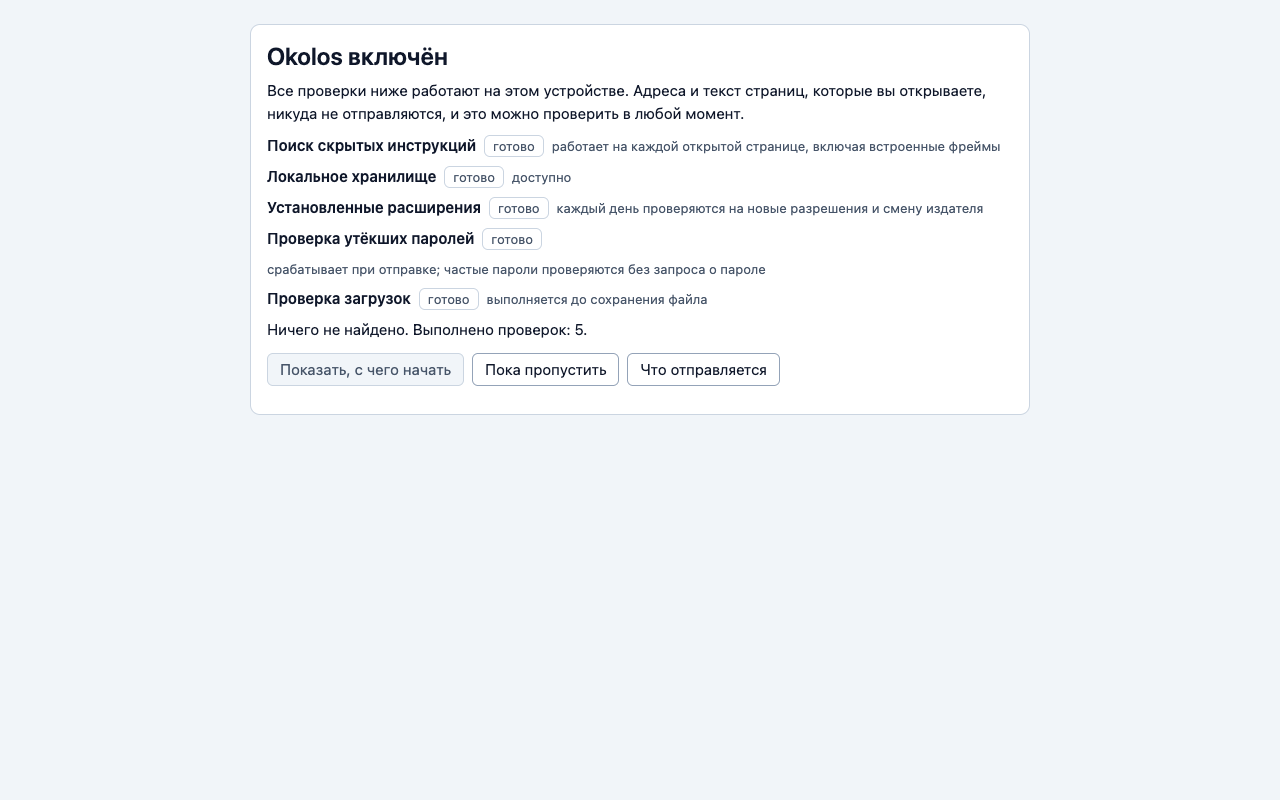
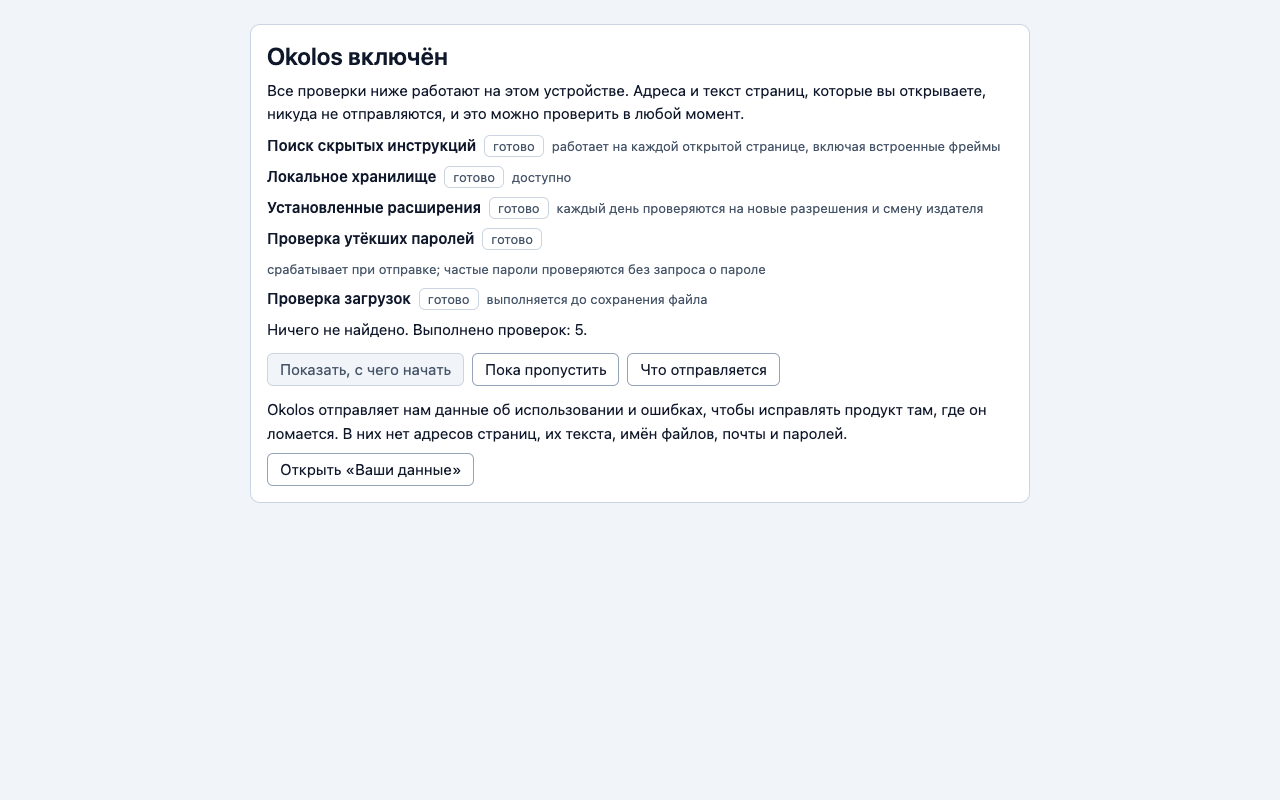
test(e2e): SCN-050/051 run on the test build, which behaves as the store build; a keyless production-shaped build says it sends nothing; store shots from their own build
CI on PR #64 failed SCN-050: e2e/fixtures.ts loads dist/chrome, the production-shaped
build with no key, which now honestly answers not-sent. The scenarios move to the
test build (hooks.js, asIfSending), and scn-051-not-sent.spec.ts checks the keyless
build on dist/chrome. The store screenshots had lost the first-run notice for the same
reason: they are taken from dist/chrome-shots (tools/build.mjs --store-shots), which
the tool removes when it is done.

Changed region(s): [[0.1875, 0.5, 0.7812, 0.5938]]

diff --git a/e2e/scn-051-not-sent.spec.ts b/e2e/scn-051-not-sent.spec.ts
@@ -1,0 +1,22 @@
+import { expect, test } from './fixtures.js'
+
+/**
+ * B-209 — a build with no App-Key, which is every build but the store's, says it sends nothing.
+ *
+ * Run against the production-shaped build (`dist/chrome`): it used to show the notice "Okolos sends
+ * us usage and error data" and a switch that was on, while it sent nothing at all.
+ */
+
+test('the first run shows no notice, and settings say this build sends nothing', async ({ context, extensionId }) => {
+  const first = await context.newPage()
+  await first.goto(`chrome-extension://${extensionId}/first-run.html`)
+  await expect(first.locator('[data-role=checks]')).toBeVisible()
+  await expect(first.locator('[data-role=usage-notice]')).toHaveCount(0)
+
+  const settings = await context.newPage()
+  await settings.goto(`chrome-extension://${extensionId}/options.html#data`)
+  const box = settings.locator('[data-role=usage-switch]')
+  await expect(box).not.toBeChecked()
+  await expect(box).toBeDisabled()
+  await expect(settings.locator('[data-role=usage-state]')).toContainText('is not from a store and sends no usage and error data')
+})

diff --git a/e2e/scn-050.spec.ts b/e2e/scn-050.spec.ts
@@ -1,10 +1,11 @@
-import { expect, test } from './fixtures.js'
+import { expect, test } from './hooks.js'
 
 /**
  * SCN-050 and SCN-051 — usage and error data (B-199), in Chromium, on the built extension.
  *
- * The test build carries no App-Key, so nothing is sent from here; what is checked is what a
- * person sees and does: the notice on the first run, its way to the switch, and the switch
+ * The test build (`hooks.js`, `dist/chrome-e2e`) carries no App-Key and behaves as the store
+ * build (`asIfSending`, B-209), so nothing is sent from here; what is checked is what a person
+ * sees and does: the notice on the first run, its way to the switch, and the switch
  * turning collection off and on again, each answered by the worker and repainted from it.
  */
 
